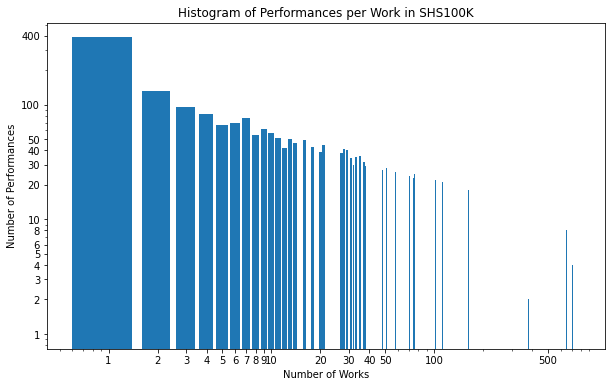
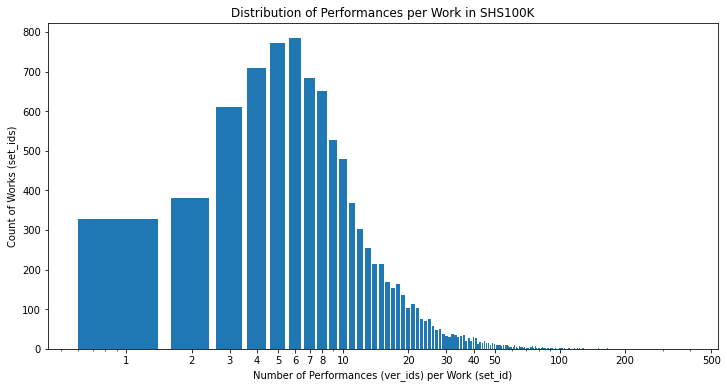
better SHS100K histogram

Changed region(s): [[0.0, 0.062, 0.9935, 0.9922], [0.2794, 0.0, 0.7761, 0.062]]

diff --git a/README.md b/README.md
@@ -257,7 +257,6 @@ Original CoverHunter also generated the following files, but were not used by th
 | work_id_num.map | Text file, not used by train.py, maybe not by anything else? |
 | work_name_num.map | Text file, not used by train.py, maybe not by anything else? |
 
-
 ## Training Checkpoint Output
 
 Using the default configuration, training saves checkpoints after each epoch in the training/covers80 folder.
@@ -296,4 +295,6 @@ As a contribution to the CSI community, where the [SHS100K dataset](https://gith
 
 ![SHS100K Histogram](SHS100k_histogram.png)
 
-This figure may be helpful as a reference for comparing the distribution of works vs. performances in datasets you want to use with CoverHunterMPS, knowing that CoverHunter was able to train successfully given this distribution.
+This figure may be helpful as a reference for comparing the distribution of works vs. performances in datasets you want to use with CoverHunterMPS, knowing that CoverHunter was able to train successfully given this distribution. 
+
+To help you understand this visualization of the SHS100K dataset, here are some example data points from it: The most common work ("Summertime") is represented by  387 performances, and there are over 300 works having only a single performance. The most common count of performances per work is 6.
